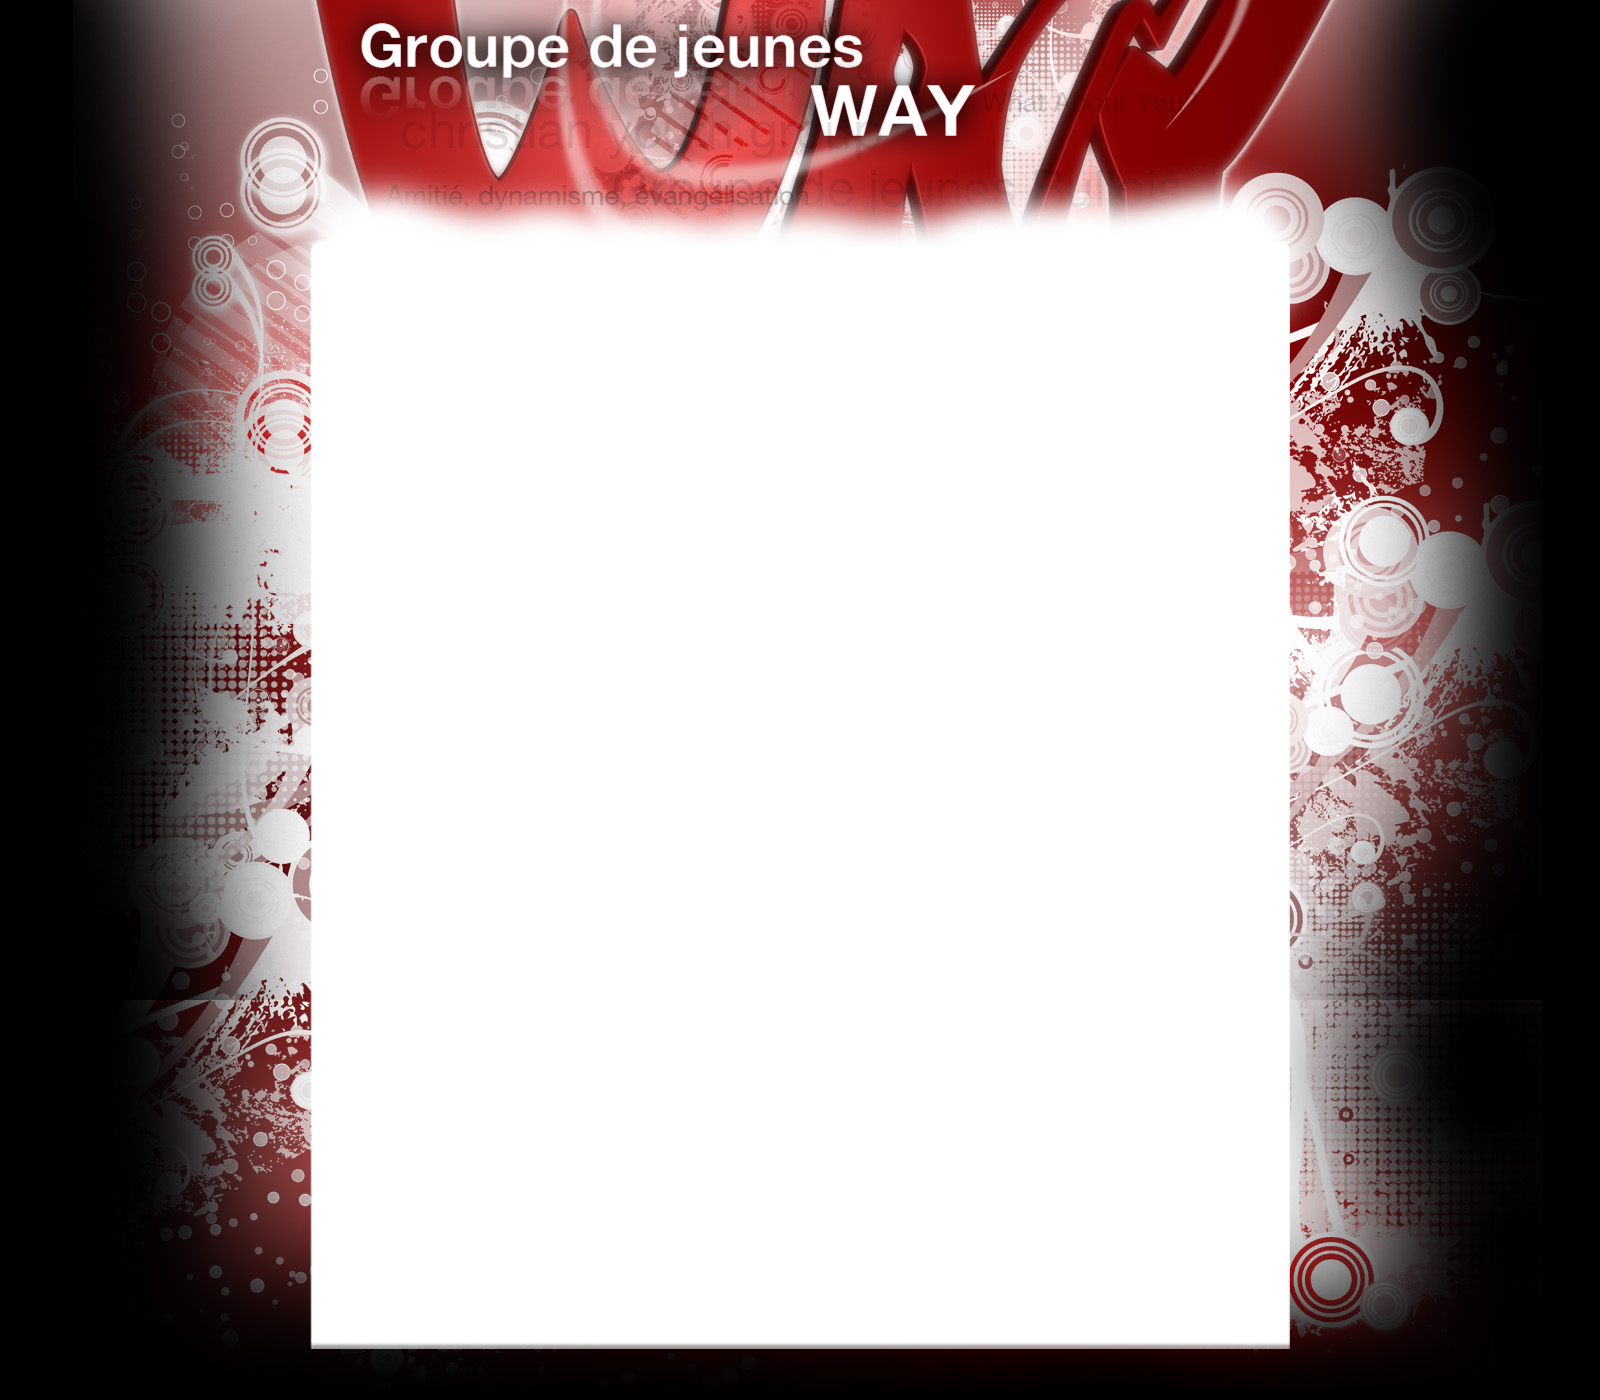
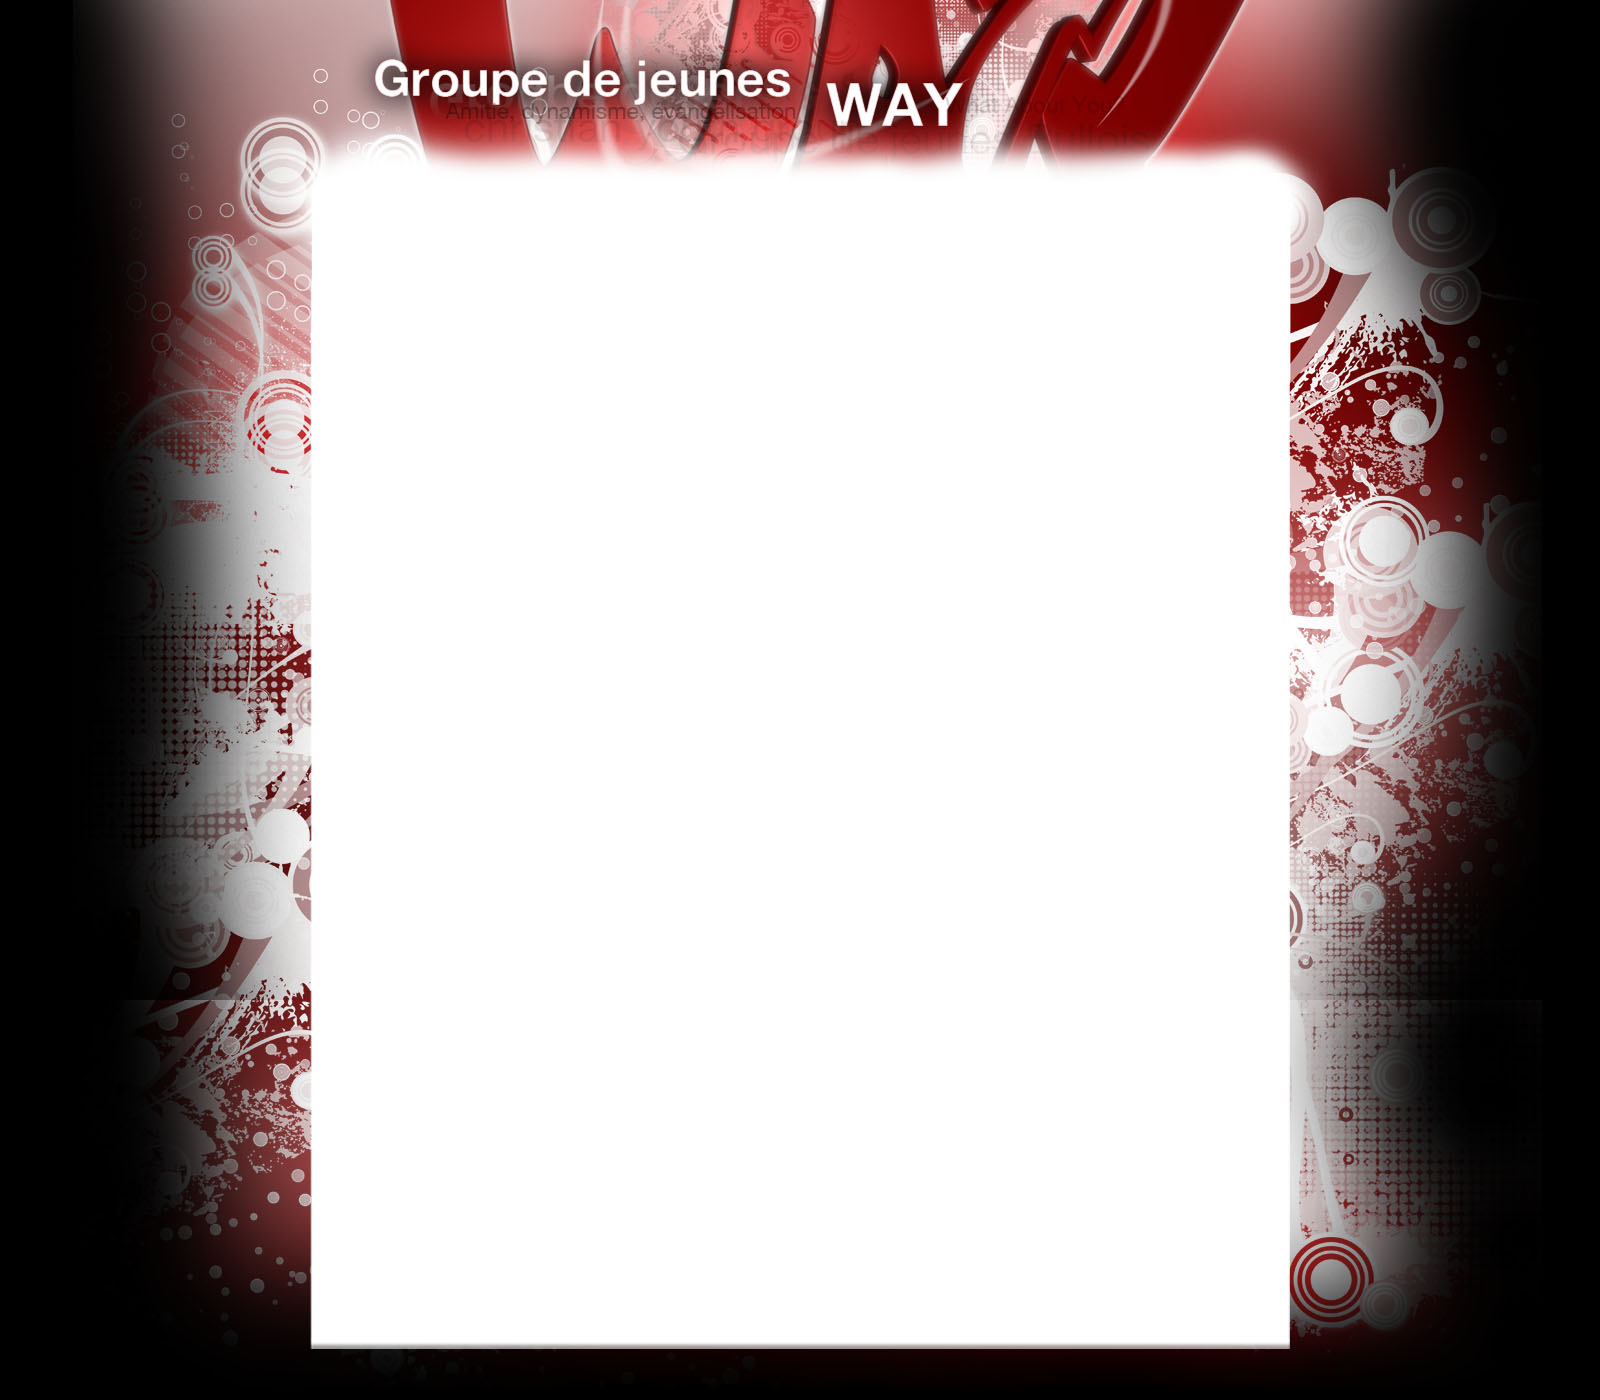
New header and slide show
+ timeline line on icons
+ close on notify flash

Changed region(s): [[0.1875, 0.0, 0.8438, 0.215], [0.1875, 0.1843, 0.2188, 0.215]]

diff --git a/app/assets/javascripts/sitewide/slider.js b/app/assets/javascripts/sitewide/slider.js
@@ -1,0 +1,8 @@
+/*! http://responsiveslides.com v1.53 by @viljamis */
+(function(c,I,B){c.fn.responsiveSlides=function(l){var a=c.extend({auto:!0,speed:500,timeout:4E3,pager:!1,nav:!1,random:!1,pause:!1,pauseControls:!0,prevText:"Previous",nextText:"Next",maxwidth:"",navContainer:"",manualControls:"",namespace:"rslides",before:function(){},after:function(){}},l);return this.each(function(){B++;var f=c(this),s,r,t,m,p,q,n=0,e=f.children(),C=e.size(),h=parseFloat(a.speed),D=parseFloat(a.timeout),u=parseFloat(a.maxwidth),g=a.namespace,d=g+B,E=g+"_nav "+d+"_nav",v=g+"_here",
+j=d+"_on",w=d+"_s",k=c("<ul class='"+g+"_tabs "+d+"_tabs' />"),x={"float":"left",position:"relative",opacity:1,zIndex:2},y={"float":"none",position:"absolute",opacity:0,zIndex:1},F=function(){var b=(document.body||document.documentElement).style,a="transition";if("string"===typeof b[a])return!0;s=["Moz","Webkit","Khtml","O","ms"];var a=a.charAt(0).toUpperCase()+a.substr(1),c;for(c=0;c<s.length;c++)if("string"===typeof b[s[c]+a])return!0;return!1}(),z=function(b){a.before();F?(e.removeClass(j).css(y).eq(b).addClass(j).css(x),
+n=b,setTimeout(function(){a.after()},h)):e.stop().fadeOut(h,function(){c(this).removeClass(j).css(y).css("opacity",1)}).eq(b).fadeIn(h,function(){c(this).addClass(j).css(x);a.after();n=b})};a.random&&(e.sort(function(){return Math.round(Math.random())-0.5}),f.empty().append(e));e.each(function(a){this.id=w+a});f.addClass(g+" "+d);l&&l.maxwidth&&f.css("max-width",u);e.hide().css(y).eq(0).addClass(j).css(x).show();F&&e.show().css({"-webkit-transition":"opacity "+h+"ms ease-in-out","-moz-transition":"opacity "+
+h+"ms ease-in-out","-o-transition":"opacity "+h+"ms ease-in-out",transition:"opacity "+h+"ms ease-in-out"});if(1<e.size()){if(D<h+100)return;if(a.pager&&!a.manualControls){var A=[];e.each(function(a){a+=1;A+="<li><a href='#' class='"+w+a+"'>"+a+"</a></li>"});k.append(A);l.navContainer?c(a.navContainer).append(k):f.after(k)}a.manualControls&&(k=c(a.manualControls),k.addClass(g+"_tabs "+d+"_tabs"));(a.pager||a.manualControls)&&k.find("li").each(function(a){c(this).addClass(w+(a+1))});if(a.pager||a.manualControls)q=
+k.find("a"),r=function(a){q.closest("li").removeClass(v).eq(a).addClass(v)};a.auto&&(t=function(){p=setInterval(function(){e.stop(!0,!0);var b=n+1<C?n+1:0;(a.pager||a.manualControls)&&r(b);z(b)},D)},t());m=function(){a.auto&&(clearInterval(p),t())};a.pause&&f.hover(function(){clearInterval(p)},function(){m()});if(a.pager||a.manualControls)q.bind("click",function(b){b.preventDefault();a.pauseControls||m();b=q.index(this);n===b||c("."+j).queue("fx").length||(r(b),z(b))}).eq(0).closest("li").addClass(v),
+a.pauseControls&&q.hover(function(){clearInterval(p)},function(){m()});if(a.nav){g="<a href='#' class='"+E+" prev'>"+a.prevText+"</a><a href='#' class='"+E+" next'>"+a.nextText+"</a>";l.navContainer?c(a.navContainer).append(g):f.after(g);var d=c("."+d+"_nav"),G=d.filter(".prev");d.bind("click",function(b){b.preventDefault();b=c("."+j);if(!b.queue("fx").length){var d=e.index(b);b=d-1;d=d+1<C?n+1:0;z(c(this)[0]===G[0]?b:d);if(a.pager||a.manualControls)r(c(this)[0]===G[0]?b:d);a.pauseControls||m()}});
+a.pauseControls&&d.hover(function(){clearInterval(p)},function(){m()})}}if("undefined"===typeof document.body.style.maxWidth&&l.maxwidth){var H=function(){f.css("width","100%");f.width()>u&&f.css("width",u)};H();c(I).bind("resize",function(){H()})}})}})(jQuery,this,0);

diff --git a/app/assets/stylesheets/sitewide/header.css.scss b/app/assets/stylesheets/sitewide/header.css.scss
@@ -1,78 +1,43 @@
 @charset "utf-8";
 /* CSS Document */
 
-ul.topnav {
-	list-style: none;
-	border-radius: 6px;
-	padding: 0 20px;
-	margin: 0;
-	float: left;
-	width: 765px; /*chrome:757px safari:790px firefox:739px*/
+#nav-container {
+	width: 100%;
 	background: #222;
-	background: url(/assets/header/topnav_bg.gif) repeat-x;
-	margin-left: -0.4em;
-	font-size: 17px;
-	font-weight: lighter;
+	position: relative;
+	top: 0px;
+	position: fixed;
 }
-ul.topnav li {
-	float: left;
-	margin: 0;
-	padding: 0 15px 0 0;
-	position: relative; /*--Declare X and Y axis base--*/
-	left: 90px;
-}
-ul.topnav li a {
-	padding: 10px 5px;
-	color: #fff;
-	display: block;
-	text-decoration: none;
-	float: left;
-}
-ul.topnav li a:hover {
-	background: url(/assets/header/topnav_hover.gif) no-repeat center top;
-}
-ul.topnav li span { /*--Drop down trigger styles--*/
-	width: 17px;
-	height: 35px;
-	float: left;
-	background: url(/assets/header/subnav_btn.gif) no-repeat center top;
-}
-ul.topnav li span.subhover {
-	background-position: center bottom;
-	cursor: pointer;
-} /*--Hover effect for trigger--*/
-ul.topnav li ul.subnav {
-	list-style: none;
-	position: absolute; /*--Important - Keeps subnav from affecting main navigation flow--*/
-	left: 0;
-	top: 35px;
-	background: #333;
-	margin: 0;
-	padding: 0;
-	display: none;
-	float: left;
-	width: 170px;
-	-moz-border-radius-bottomleft: 5px;
-	-moz-border-radius-bottomright: 5px;
-	-webkit-border-bottom-left-radius: 5px;
-	-webkit-border-bottom-right-radius: 5px;
-	border: 1px solid #111;
-}
-ul.topnav li ul.subnav li {
-	margin: 0;
-	padding: 0;
-	border-top: 1px solid #252525; /*--Create bevel effect--*/
-	border-bottom: 1px solid #444; /*--Create bevel effect--*/
-	clear: both;
-	width: 170px;
-	left: 0;
-}
-html ul.topnav li ul.subnav li a {
-	float: left;
-	width: 145px;
-	background: #333 url(/assets/header/dropdown_linkbg.gif) no-repeat 10px center;
-	padding-left: 20px;
-}
-html ul.topnav li ul.subnav li a:hover { /*--Hover effect for subnav links--*/
-	background: #222 url(/assets/header/dropdown_linkbg.gif) no-repeat 10px center;
-}
+
+	#nav-container nav {
+		width: 100%;
+		margin: auto;
+	}
+
+	#nav-container nav ul {
+		text-align: center;
+	}
+
+	#nav-container nav ul li {
+		display: inline;
+		list-style: none;
+	}
+
+	#nav-container nav ul li a {
+		text-decoration: none;
+		font-size: 1em;
+		font-weight: lighter;
+		display: inline-block;
+		width: 5em;
+		text-align: center;
+		padding: .5em .7em;
+		border-radius: 1px;
+		color: white;
+		background: #2a2a2a;
+	}
+
+	#nav-container nav ul li a:hover,
+	#nav-container nav ul li a.selected{
+		background: #40bfe8;
+		color: #fff;
+	}

diff --git a/app/assets/stylesheets/sitewide/design.css.scss b/app/assets/stylesheets/sitewide/design.css.scss
@@ -11,7 +11,7 @@
 }
 
 body {
-	width: 980px;
+	//width: 980px;
 	margin: auto;
 	font-family: Ubuntu, Tahoma, Geneva, sans-serif;
 	font-size: 0.9em;
@@ -43,6 +43,10 @@ body {
 	// chrome/firefox:8% safari:5% margin-bottom:10%
 	}
 
+	ol, ul {
+		list-style: none;
+	}
+
 	.clear {
 		clear: both
 	}
@@ -62,12 +66,12 @@ body {
 /* ==================== Global container ====================*/
 
 div#container {
-	margin-top: 17em;
-	margin-left: 2px;
+	margin: 13em auto;
 	padding-left: 20px;
 	padding-right: 20px;
 	background: #ffffff;
-	border-radius: 10px
+	border-radius: 10px;
+	width: 940px;
 }
 
 	#container .nice_pic {
@@ -437,7 +441,7 @@ div#container {
 
 	#container #message {
 	    position:fixed;
-	    top:0px;
+	    bottom:0px;
 	    left:0px;
 	    width:100%;
 	    z-index:105;
@@ -461,8 +465,17 @@ div#container {
 		    color:#fff;
 		    text-decoration:none;
 		    padding-left:3px;
-		    padding-right:3px
+		    padding-right:3px;
+		    font-weight: bold;
+		    font-size: 15px;
+		    border: 1px solid #aaa;
+		    border-radius: 6px;
+		    background: #222;
 		}
+
+			#container #message .close-notify:hover {
+				background: #aaa;
+			}
 
 			#container #message .close-notify a {
 			    color: #fff;

diff --git a/app/assets/stylesheets/sitewide/slider.css.scss b/app/assets/stylesheets/sitewide/slider.css.scss
@@ -1,0 +1,63 @@
+.slider {
+	height: 150px;
+  background: #ddd;
+  padding: 5px;
+}
+ 
+.rslides {
+  position: relative;
+  list-style: none;
+  overflow: hidden;
+  width: 100%;
+  padding: 0;
+  margin: 0;
+  }
+
+.rslides li {
+  -webkit-backface-visibility: hidden;
+  position: absolute;
+  display: none;
+  width: 100%;
+  left: 0;
+  top: 0;
+  }
+
+.rslides li:first-child {
+  position: relative;
+  display: block;
+  float: left;
+  }
+
+.rslides img {
+  display: block;
+  height: auto;
+  float: left;
+  width: 100%;
+  border: 0;
+  }
+
+  /* Navigation */
+
+  .slider .nav-slides {
+  	width: inherit;
+  	margin: auto;
+  	text-align: center;
+  	margin-top: 5px;
+  }
+
+  .slider .nav-slides li {
+  	display: inline;
+  }
+
+  .slider .nav-slides li a{
+  	padding: .1em 1em;
+  	background: #ddd;
+  	color: #bbb;
+  	border-radius: 1em;
+  }
+
+  .slider .nav-slides .rslides_here a {
+  	background: #bbb;
+  	font-weight: bold;
+    color: #ddd;
+  }

diff --git a/app/assets/stylesheets/sitewide/timeline.css.scss b/app/assets/stylesheets/sitewide/timeline.css.scss
@@ -59,13 +59,19 @@
 	#content #summary_timeline {
 	}
 
-		#content #summary_timeline tr {
+		#content #summary_timeline tr.a {
+		}
+
+		#content #summary_timeline tr span.anchor {
+			position:absolute; 
+			top:-60px;
 		}
 
 		#content #summary_timeline .countdown {
 			font-size: 12px;
 			min-width: 75px;
 			text-align: right;
+			position: relative;
 		}
 
 		#content #summary_timeline .marker {

diff --git a/app/assets/javascripts/sitewide/timeline.js b/app/assets/javascripts/sitewide/timeline.js
@@ -33,4 +33,8 @@ $(document).ready(function(){
   });
   $(".toggle_now").toggle(2000);
 
+  $('.b').click(function(){
+    $('.toggle_wrap').toggle(true, 2000);
+  });
+
 });

diff --git a/app/helpers/application_helper.rb b/app/helpers/application_helper.rb
@@ -18,4 +18,9 @@ module ApplicationHelper
 		session[:return_to] = request.fullpath
 	end
 
+	# Used for nav
+	def is_active?(page_name)
+  	"selected" if params[:action] == page_name
+	end
+
 end

diff --git a/app/uploaders/painting_uploader.rb b/app/uploaders/painting_uploader.rb
@@ -20,6 +20,7 @@ class PaintingUploader < CarrierWave::Uploader::Base
 
   version :thumb do
     process resize_to_fit: [136, 90]
+    process :quality => 90
   end
 
   def extension_white_list
